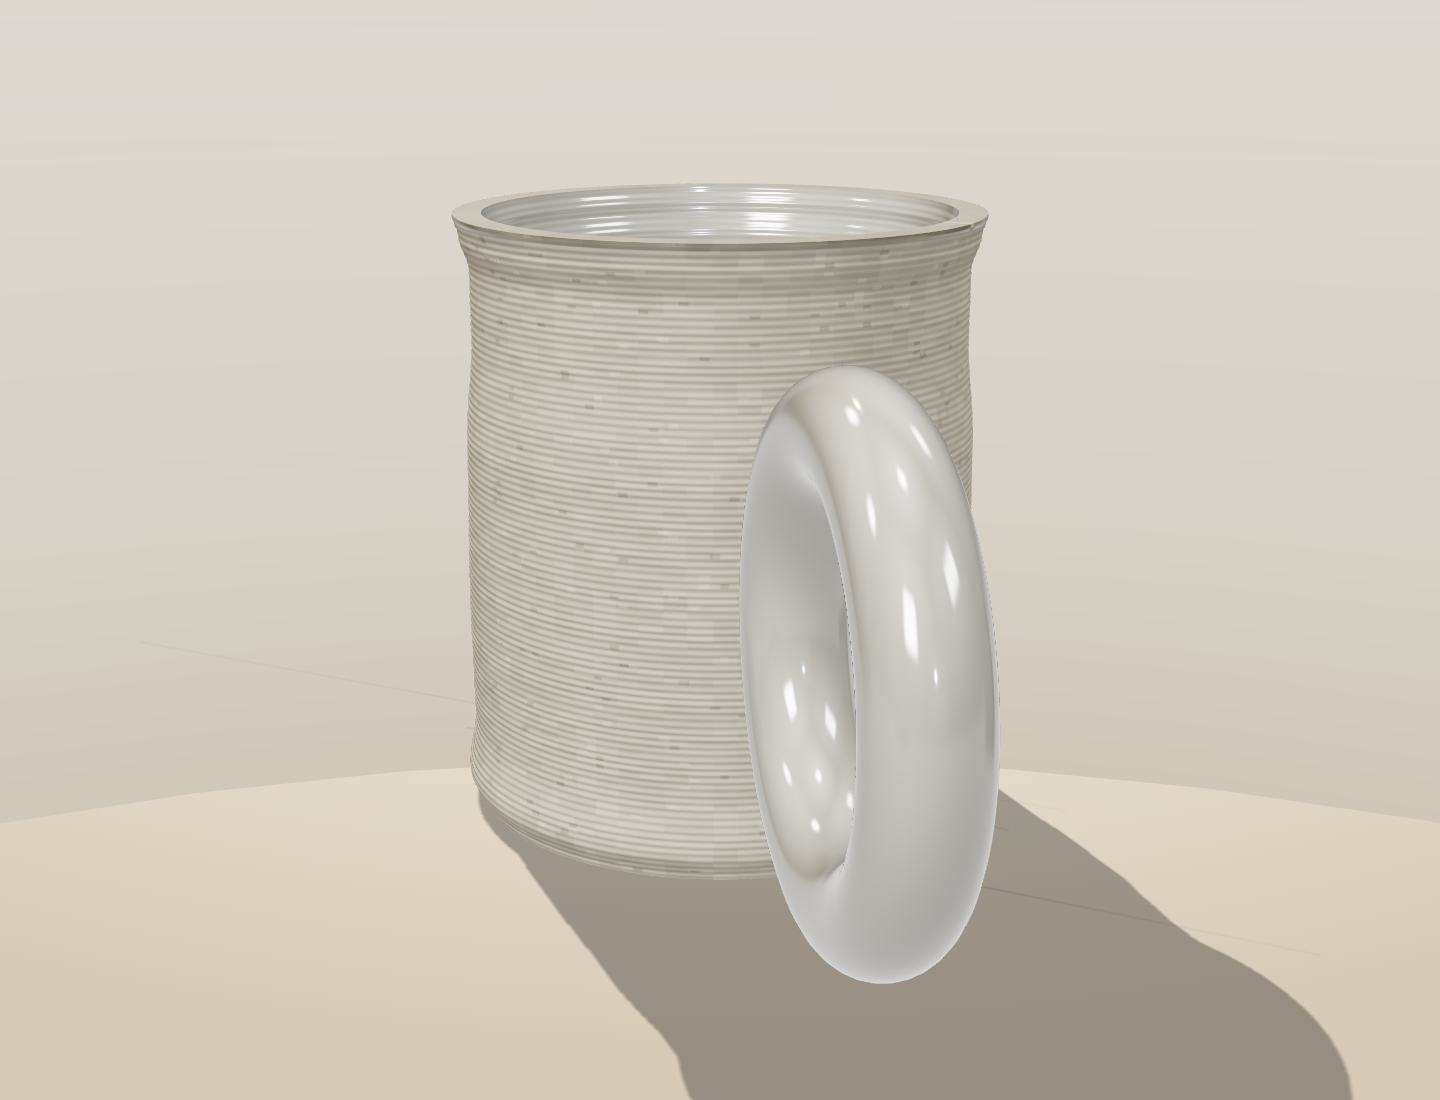
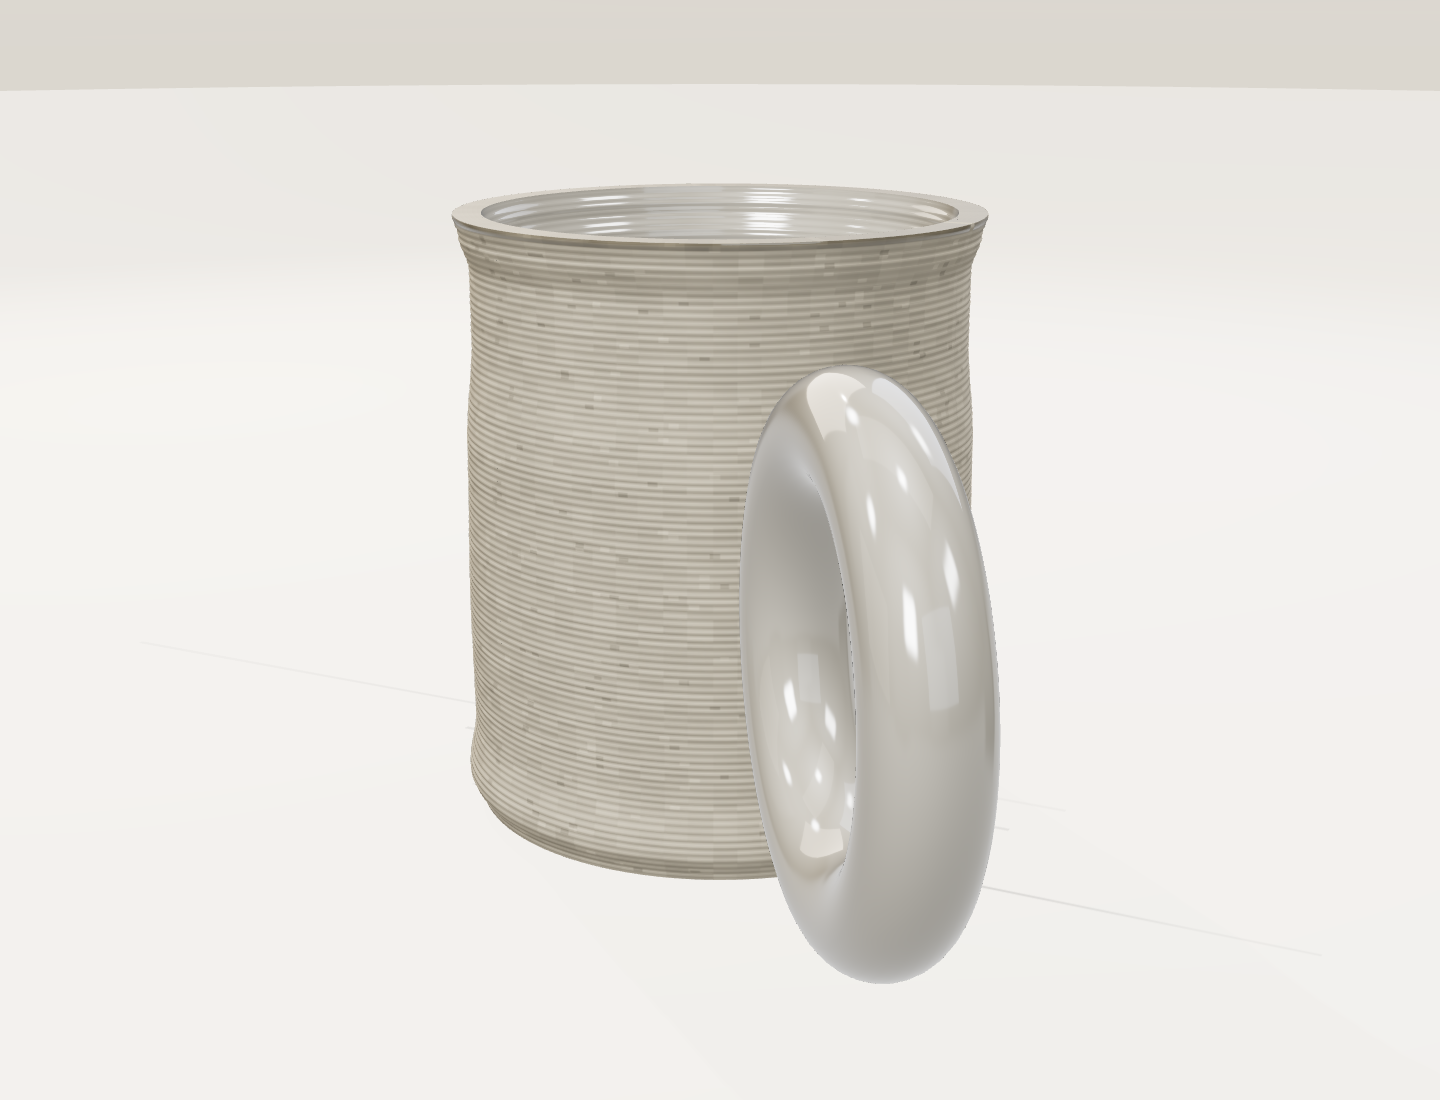
Diffuse studio lighting: area softboxes around product, studio floor

diff --git a/src/main.js b/src/main.js
@@ -3,6 +3,7 @@ import { OrbitControls } from "three/addons/controls/OrbitControls.js";
 import { GLTFLoader } from "three/addons/loaders/GLTFLoader.js";
 import { DRACOLoader } from "three/addons/loaders/DRACOLoader.js";
 import { RoomEnvironment } from "three/addons/environments/RoomEnvironment.js";
+import { RectAreaLightUniformsLib } from "three/addons/lights/RectAreaLightUniformsLib.js";
 
 /*
  * Blender path: the cup and its materials are authored in Blender
@@ -45,11 +46,19 @@ controls.update();
 const pmrem = new THREE.PMREMGenerator(renderer);
 const envTexture = pmrem.fromScene(new RoomEnvironment(), 0.035).texture;
 scene.environment = envTexture;
+scene.environmentIntensity = 0.8;
 pmrem.dispose();
 
-// Shadows: real PCF key shadow + wide radial-gradient layers on the floor.
-const keyLight = new THREE.DirectionalLight(0xfff0da, 2.5);
-keyLight.position.set(-185, 250, -165);
+/*
+ * Studio lighting, not a single source:
+ *  - four large softbox area lights around the product;
+ *  - warm/cool separation so surfaces don't go flat;
+ *  - one low-intensity directional only to keep a very soft shadow shape.
+ */
+RectAreaLightUniformsLib.init();
+
+const keyLight = new THREE.DirectionalLight(0xfff2e2, 0.85);
+keyLight.position.set(-260, 240, -210);
 keyLight.castShadow = true;
 keyLight.shadow.mapSize.set(2048, 2048);
 keyLight.shadow.camera.near = 10;
@@ -59,14 +68,61 @@ keyLight.shadow.camera.right = 180;
 keyLight.shadow.camera.top = 180;
 keyLight.shadow.camera.bottom = -180;
 keyLight.shadow.bias = -0.0004;
-keyLight.shadow.radius = 7;
+keyLight.shadow.radius = 9;
 scene.add(keyLight);
 
-const frontRim = new THREE.DirectionalLight(0xcfe2ff, 0.9);
-frontRim.position.set(175, 90, 240);
-scene.add(frontRim);
+const studioLights = [
+  {
+    color: 0xffedd6,
+    intensity: 4.2,
+    width: 420,
+    height: 300,
+    position: [-360, 300, -260],
+    label: "key-softbox",
+  },
+  {
+    color: 0xe8f2ff,
+    intensity: 2.2,
+    width: 360,
+    height: 250,
+    position: [340, 210, 330],
+    label: "fill-softbox",
+  },
+  {
+    color: 0xfff6e8,
+    intensity: 1.6,
+    width: 520,
+    height: 180,
+    position: [0, 430, 0],
+    label: "overhead-softbox",
+  },
+  {
+    color: 0xe4ecff,
+    intensity: 2.6,
+    width: 360,
+    height: 300,
+    position: [70, 300, -380],
+    label: "rim-softbox",
+  },
+  {
+    color: 0xfff4e4,
+    intensity: 0.9,
+    width: 280,
+    height: 200,
+    position: [-300, 120, 300],
+    label: "bounce",
+  },
+];
 
-const fillLight = new THREE.HemisphereLight(0xfff2df, 0x6f6557, 0.35);
+for (const cfg of studioLights) {
+  const light = new THREE.RectAreaLight(cfg.color, cfg.intensity, cfg.width, cfg.height);
+  light.position.set(...cfg.position);
+  light.lookAt(0, 34, 0);
+  light.name = cfg.label;
+  scene.add(light);
+}
+
+const fillLight = new THREE.HemisphereLight(0xf5ead8, 0x4f4840, 0.55);
 scene.add(fillLight);
 
 const cupGroup = new THREE.Group();
@@ -100,13 +156,19 @@ backdrop.position.y = 680;
 backdrop.frustumCulled = false;
 scene.add(backdrop);
 
-const shadowPlane = new THREE.Mesh(
-  new THREE.CircleGeometry(1800, 64).rotateX(-Math.PI / 2),
-  new THREE.ShadowMaterial({ opacity: 0.3 })
+const studioFloor = new THREE.Mesh(
+  new THREE.CircleGeometry(2200, 96).rotateX(-Math.PI / 2),
+  new THREE.MeshPhysicalMaterial({
+    color: 0xe6dccc,
+    roughness: 0.62,
+    metalness: 0,
+    clearcoat: 0.08,
+    envMapIntensity: 0.4,
+  })
 );
-shadowPlane.position.y = -0.12;
-shadowPlane.receiveShadow = true;
-scene.add(shadowPlane);
+studioFloor.position.y = -0.12;
+studioFloor.receiveShadow = true;
+scene.add(studioFloor);
 
 function softShadowTexture() {
   const s = 512;

diff --git a/vite.config.js b/vite.config.js
@@ -3,6 +3,6 @@ import { defineConfig } from "vite";
 export default defineConfig({
   base: "./",
   build: {
-    chunkSizeWarningLimit: 600,
+    chunkSizeWarningLimit: 900,
   },
 });

diff --git a/README.md b/README.md
@@ -13,8 +13,10 @@
   рельефе снаружи и на ручке. Материал экспортируется как KHR_materials_clearcoat.
 - Круглый барельеф встроен в геометрию стенки, а маска глазури использует ту
   же конфигурацию рельефа — покрытие ложится точно на выпуклость.
-- Несколько слоёв мягких теней: настоящая PCF-тень от ключевого света плюс
-  три широких радиальных градиента, как в студийном продуктовом кадре.
+- Студийный свет вокруг изделия: четыре крупных area-софтбокса (ключ, заливка,
+  верх, контровой) плюс низкоинтенсивный directional для мягкой формы тени.
+- Несколько слоёв мягких теней на студийном полу: PCF-тень плюс широкие
+  радиальные градиенты, как в продуктовом кадре.
 
 ## Запуск страницы
 
